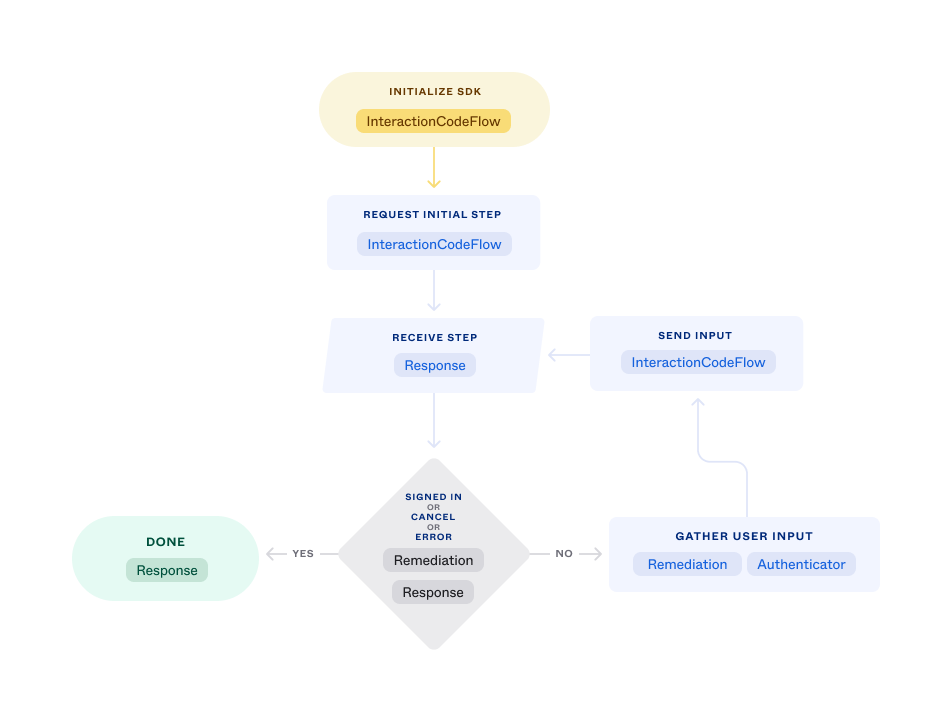
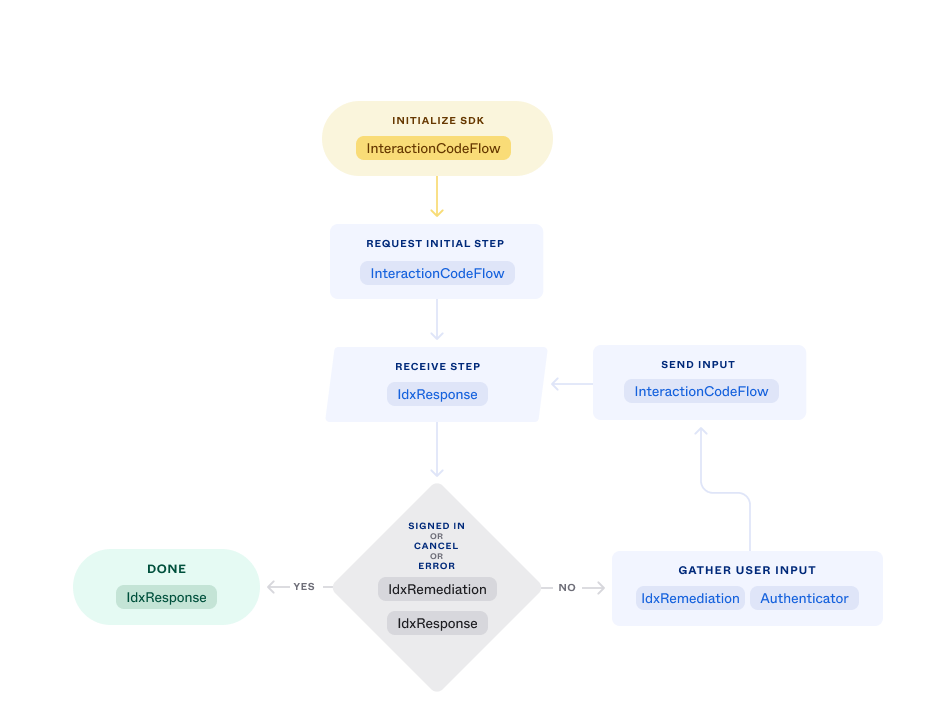
Incorporated Dan M review comments
Incorporated all the changes from Dan's review including both the easy ones and proposed changes.
Updated the Android detail flow image for new classnames.

diff --git a/packages/@okta/vuepress-site/docs/guides/mobile-idx-sdk-overview/main/index.md b/packages/@okta/vuepress-site/docs/guides/mobile-idx-sdk-overview/main/index.md
@@ -2,13 +2,13 @@
 title: Overview of the mobile Identity Engine SDK
 ---
 
-Design the implementation of sign-in for your mobile app by understanding the objects and messages that represent the sign-in flow.
+Design the sign-in implementation for your mobile app by understanding the objects and messages that represent the sign-in flow.
 
 <ApiLifecycle access="ie" /><br>
 
 ## Introduction
 
-There are two ways to use Okta for sign-in in your app:
+There are two ways to use Okta services for user sign-in in your app:
 
 - Redirect the request to Okta which handles the flow in its own window (the redirect model).
 - Handle each step in the flow by building the appropriate user interface elements, capturing the information, and updating Okta (the embedded model).
@@ -17,9 +17,11 @@ This guide is an overview of building your own user interface using the embedded
 
 ## Sign-in flow
 
-Okta supports many ways of authenticating the identity of a user during the sign-in flow. An Okta org administrator creates _policies_, different mixes of *authenticators*, or ways of verifying the identity of a user, and assigns them to apps, people, groups, and more. Policies also configure whether an authenticator is required or optional, as well as the minimum number of authenticators required for a successful sign-in. Responding to each authenticator is a step in the sign-in flow. Many flows require multiple *factors* (multifactor authentication), the category of an authenticator. Factors include: biometrics, such as a fingerprint; knowledge, such as a password; and more. This effectively results in an infinite number of combinations of authenticators and the order in which they're presented.
+Okta supports many different __authenticators__ for identifying a user during the sign-in flow, such as a password or fingerprint. Responding to each authenticator is a step in the sign-in flow. Many flows require multiple __factors__ (multifactor authentication), the type of an authenticator. For example, a fingerprint is a biometric factor and a USB Token is a possession factor.
 
-The Android and Swift Identity Engine SDKs represent the sign-in flow as a state machine. You initialize the machine with the details of the Okta org application integration, request the initial step in the flow, and cycle through responding to steps until either the user signs in, cancels, or an error occurs.
+An Okta org administrator creates __policies__, different mixes of authenticators, and assigns them to apps, people, groups, and more. Policies also configure whether an authenticator is required or optional, as well as the minimum number of authenticators required for a successful sign-in. This effectively results in an infinite number of combinations of authenticators and the order in which they're presented.
+
+The Android and Swift Identity Engine SDKs represent the sign-in flow as a state machine. You initialize the machine with the details of an Okta org application integration, request the initial step in the flow, and cycle through responding to steps until either the user signs in, cancels, or an error occurs.
 
 <div class="three-quarter">
 
@@ -48,7 +50,7 @@ The SDK represents the sign-in flow using a number of different objects:
 - **Authenticator:** Represents an authenticator that's used to verify the identity of a user, such as Okta Verify.
 - **Method:** Represents a channel for an authenticator, such as using SMS or voice for an authenticator that uses a phone. An authenticator may have zero or more methods.
 - **Capability:** A user action associated with a remediation, authenticator, or method, such as requesting a new OTP or a password reset.
-- **Field:** Represents a UI element, either a static item, such as a label, or user input, such as a selection list. It includes properties for state information, such as whether the associated value is required. Properties also store the current value of user input field, such as the string for an OTP or the selected choice. A lists of choices, or **Options**, are represented by a collection of fields. A field may contain a form that contains more fields.
+- **Field:** Represents a UI element, either a static item, such as a label, or user input, such as a selection list. It includes properties for state information, such as whether the associated value is required. A property also stores the current value of a user input field, such as the string for an OTP or the selected choice. A collection of fields, or **Options**, represents a list of choices. A field may contain a form that contains more fields.
 - **Form:** Contains the fields that represent the user action for a remediation.
 - **InteractionCodeFlow:** Represents the session during the sign-in flow. In the Android SDK it includes the function for requesting the next step in the flow.
 
@@ -59,7 +61,7 @@ The SDK represents the sign-in flow using a number of different objects:
 
 ## Manage the sign-in flow
 
-An object that manages the sign-in flow includes the following functionality:
+To create an object that manages the sign-in flow, include the following functionality:
 
 - Initialize the flow.
 - Start the sign-in.
@@ -88,7 +90,7 @@ The configuration information in a shipping app is usually static. You can initi
 
 <StackSnippet snippet="initializeflow" />
 
-### Start the sign-in
+### Start the sign-in flow
 
 Start the sign-in flow after initializing an `InteractionCodeFlow` object.
 
@@ -98,7 +100,7 @@ Start the sign-in flow after initializing an `InteractionCodeFlow` object.
 
 The steps for processing each response are:
 
-1. Check if the sign-in succeeded.
+1. Check for a successful sign-in.
 1. Check for messages, such as an invalid password.
 1. Check for remediations.
 1. Process the remediations.

diff --git a/packages/@okta/vuepress-site/docs/guides/mobile-idx-sdk-overview/main/ios/initializeflow.md b/packages/@okta/vuepress-site/docs/guides/mobile-idx-sdk-overview/main/ios/initializeflow.md
@@ -2,11 +2,11 @@ You can provide the configuration information in a property list file or in the 
 
 #### Add configuration with a property list
 
-The `init()` function of `InteractionCodeFlow` looks for a property list called `Okta.plist`. You can also call `init(plist:)` to specify a file.
+The default `init()` function of `InteractionCodeFlow` looks for a property list called `Okta.plist`. You can also call `init(issuer:clientId:scopes:redirectUri:additionalParameters:)` to set the configuration values.
 
-To use a property list first create a property list file, such as `Okta.plist`. Next, add key-value pairs with the configuration settings for your Application Integration. For example, in the following text version of a `plist`, substitute your issuer URL for `{yourIssuerUrl}`, the client ID of your Application Integration for `{yourClientId}`, and a URI that launches your app. Set the scopes based on the access required by your app.
+To use a property list, first create a property list file, such as `Okta.plist`. Next, add key-value pairs with the configuration settings for your application integration. For example, in the following text version of a `plist`, substitute your issuer URL for `{yourIssuerUrl}`, the client ID of your application integration for `{yourClientId}`, and a URI that launches your app. Set the scopes based on the access required by your app.
 
-```xml
+```properties
 <?xml version="1.0" encoding="UTF-8"?>
 <!DOCTYPE plist PUBLIC "-//Apple//DTD PLIST 1.0//EN" "http://www.apple.com/DTDs/PropertyList-1.0.dtd">
 <plist version="1.0">
@@ -23,7 +23,7 @@ To use a property list first create a property list file, such as `Okta.plist`. 
 </plist>
 ```
 
-Then, add code to create an `InteractionCodeFlow`, this example uses `Okta.plist`.
+Then, add code to create an `InteractionCodeFlow` object. This example uses `Okta.plist`.
 
 ```swift
 let flow = InteractionCodeFlow()
@@ -42,4 +42,4 @@ let flow = InteractionCodeFlow(
     redirectUri: "{com.your.app:/callback-uri}")
 ```
 
-> **Note:** `OAuth2Client.Configuration`, an object for managing configurations is included in the AuthFoundation package.
+> **Note:** `OAuth2Client.Configuration`, an object for managing configurations, is included in the `AuthFoundation` package.

diff --git a/packages/@okta/vuepress-site/docs/guides/mobile-idx-sdk-overview/main/ios/gettingatoken.md b/packages/@okta/vuepress-site/docs/guides/mobile-idx-sdk-overview/main/ios/gettingatoken.md
@@ -1,6 +1,6 @@
-Getting the authorization token takes two-steps. First, request a the token after the sign-in is successful. Then receive that token from the server. The access token is represented by a `Token` object from the `AuthFoundation` library that is a dependency for the Swift IDX SDK. You can store the token securely in the Keychain using `Credential`, another class from the `AuthFoundation` library.
+Request the access token after a successful sign-in. The access token is represented by a `Token` object from the `AuthFoundation` library that is a dependency for the Swift IDX SDK. You can store the token securely in the Keychain using `Credential`, another class from the `AuthFoundation` library.
 
-This example shows part of the implementation of the `InteractionCodeFlowDelegate` protocol functions that are called as part of getting the authorization token.
+This example shows part of the implementation of the `InteractionCodeFlowDelegate` protocol functions that are called as part of getting the access token.
 
 
 ```swift

diff --git a/packages/@okta/vuepress-site/docs/guides/mobile-idx-sdk-overview/main/android/initializeflow.md b/packages/@okta/vuepress-site/docs/guides/mobile-idx-sdk-overview/main/android/initializeflow.md
@@ -1,5 +1,5 @@
 
-Initialize AuthFoundationBootstrap in your `Application` sublcass. This code shows loading the values from a property file in your project.
+Initialize AuthFoundationBootstrap in your `Application` sublcass. Applicaiton.
 
 First, create a property file, for example, `okta.properties` in the project root. Add the values for your Okta application integration to the file.
 
@@ -26,7 +26,7 @@ defaultConfig {
 }
 ```
 
-In your `Applicaiton` subclass, initialize `AuthFoundationBootstrap` from the `BuildConfig` by calling `initializeAuthFoundation` from `onCreate`.
+In your `Application` subclass, initialize `AuthFoundationBootstrap` from the `BuildConfig` by calling `initializeAuthFoundation` from `onCreate`.
 
 ```kotlin
 import com.okta.android.samples.authenticator.BuildConfig

diff --git a/packages/@okta/vuepress-site/docs/guides/mobile-idx-sdk-overview/main/android/initializingsdksession.md b/packages/@okta/vuepress-site/docs/guides/mobile-idx-sdk-overview/main/android/initializingsdksession.md
@@ -1,5 +1,5 @@
 
-This example creates the flow in the viewmodel `launch` coroutine. Start by calling `CredentialBootstrap.oidcClient.createInteractionCodeFlow` and on success, request the first response by calling `resume()` on the result.
+This example creates the flow in the viewmodel `launch` coroutine. Start by calling `CredentialBootstrap.oidcClient.createInteractionCodeFlow()` and on success, request the first response by calling `resume()` on the result.
 
 ```kotlin
 import com.okta.authfoundation.client.OidcClientResult

diff --git a/packages/@okta/vuepress-site/docs/guides/mobile-idx-sdk-overview/main/ios/signingout.md b/packages/@okta/vuepress-site/docs/guides/mobile-idx-sdk-overview/main/ios/signingout.md
@@ -1,4 +1,4 @@
-The code snippet below uses the `Credential` object of the `AuthFoundation` library to revoke the tokens for the current user. You can use other features of `Credential` to revoke the tokens of a specific user.
+The next code snippet uses the `Credential` object of the `AuthFoundation` library to revoke the tokens for the current user. You can use other features of `Credential` to revoke the tokens of a specific user.
 
 ```swift
 

diff --git a/packages/@okta/vuepress-site/docs/guides/mobile-idx-sdk-overview/main/ios/initializingsdksession.md b/packages/@okta/vuepress-site/docs/guides/mobile-idx-sdk-overview/main/ios/initializingsdksession.md
@@ -1,4 +1,4 @@
-This example shows parts of a singleton class for managing the sign-in flow. It assumes that the configuration information is in a property list file called  `Okta.plist`.
+This example shows parts of a singleton class for managing the sign-in flow. It assumes that the configuration information is in a property list file called `Okta.plist`.
 
 ```swift
 import OktaIdx

diff --git a/packages/@okta/vuepress-site/docs/guides/mobile-idx-sdk-overview/main/ios/adddependency.md b/packages/@okta/vuepress-site/docs/guides/mobile-idx-sdk-overview/main/ios/adddependency.md
@@ -5,6 +5,7 @@ The Okta Identity Engine SDK is available as a Swift package. Add it to your pro
 1. Click **Add Package**.
 
 The SDK includes a dependency on the Okta `AuthFoundation` library.
+
 Import the packages into Swift files to access the SDK:
 
 ```swift
